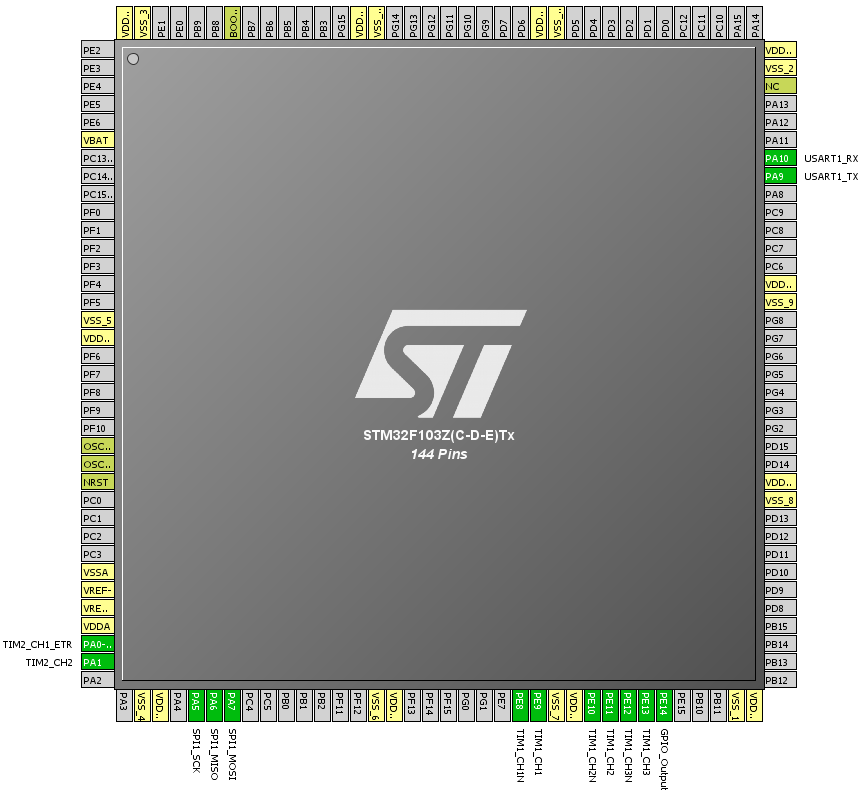
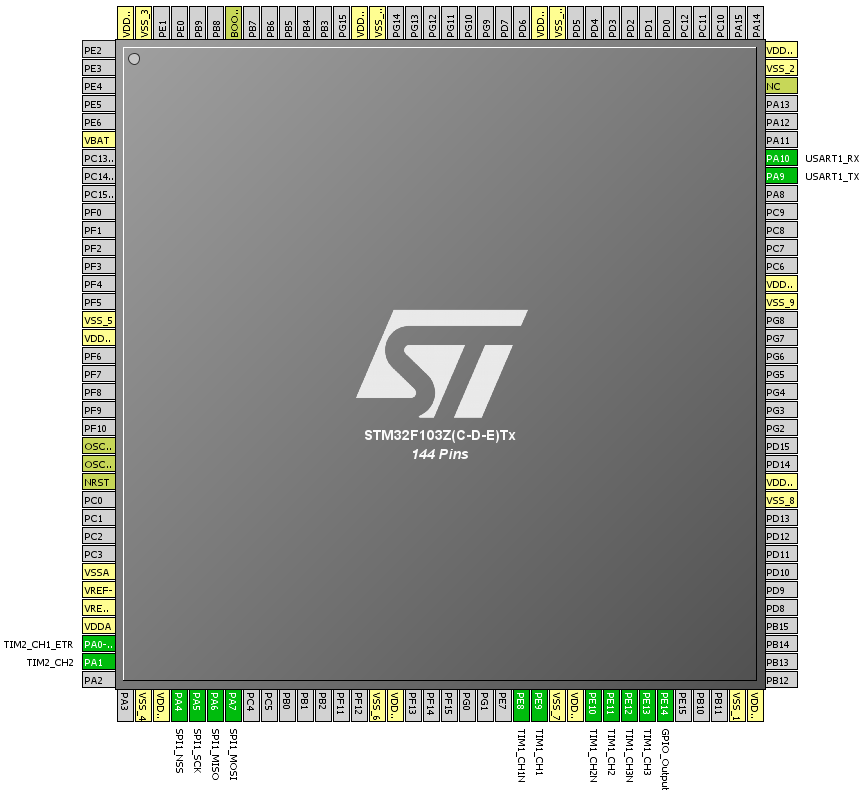
AD7323 HAL (logic analyzer verified only)

Changed region(s): [[0.0, 0.0, 0.9965, 1.0], [0.4228, 0.4545, 0.6039, 0.5758]]

diff --git a/user/ad7323.hpp b/user/ad7323.hpp
@@ -1,0 +1,128 @@
+#ifndef _AD7323_HPP_
+#define _AD7323_HPP_
+
+#include "stdint.h"
+
+
+extern bool ad7323_enabled;
+extern uint16_t ad7323_val[4];
+
+
+////////////
+// registers
+
+union ad7323_ctrl_t {
+    uint16_t all;
+    __packed struct {
+        uint16_t _1_0       : 2; //[ 1: 0] reserved
+        uint16_t seq        : 2; //[ 3: 2] sequencer mode
+        uint16_t ref        : 1; //[ 4: 4] internal reference enable
+        uint16_t coding     : 1; //[ 5: 5] 0 => 2's compl, 1 => 1's compl
+        uint16_t pm         : 2; //[ 7: 6] power mode
+        uint16_t mode       : 2; //[ 9: 8] input mode
+        uint16_t add        : 2; //[11:10] address (see datasheet)
+        uint16_t _12        : 1; //[12:12] reserved
+        uint16_t _REG       : 3; //[15:13] register select
+    } fields;
+
+    enum seq_t {
+        seq_off     = 0, //2'b00 sequencer not used
+        seq_mask    = 1, //2'b01 use `seq` register (channel mask)
+        seq_range   = 2, //2'b10 from 0 to `add` of `ctrl` register
+    };
+    enum pm_t {
+        pm_normal   = 0, //2'b00 all power up
+        pm_standby  = 1, //2'b01 auto-standby
+        pm_shutdown = 2, //2'b10 auto-shutdown
+        pm_off      = 3, //2'b11 full-shutdown
+    };
+    enum mode_t {
+        mode_4se    = 0, //2'b00 [0, 1, 2, 3]
+        mode_2pd    = 1, //2'b01 [0-1, 0-1, 2-3, 2-3] (digital)
+        mode_2fd    = 2, //2'b10 [0-1, 0-1, 2-3, 2-3] (analog)
+        mode_3pd    = 3, //2'b11 [0-3, 1-3, 2-3, n/a] (digital)
+    };
+
+    enum {
+        _REG = 4, //3'b100
+    };
+
+    void init() {
+        all = 0;
+        fields._REG = _REG;
+    }
+};
+extern ad7323_ctrl_t ad7323_ctrl;
+
+union ad7323_seq_t {
+    uint16_t all;
+    __packed struct {
+        uint16_t _8_0   : 9; //[ 8: 0] reserved
+        uint16_t vin3   : 1; //[ 9: 9] ch 3 enable
+        uint16_t vin2   : 1; //[10:10] ch 2 enable
+        uint16_t vin1   : 1; //[11:11] ch 1 enable
+        uint16_t vin0   : 1; //[12:12] ch 0 enable
+        uint16_t _REG   : 3; //[15:13] register select
+    } fields;
+
+    enum {
+        _REG = 7, //3'b111
+    };
+
+    void init() {
+        all = 0;
+        fields._REG = _REG;
+    }
+};
+extern ad7323_seq_t ad7323_seq;
+
+union ad7323_range_t {
+    uint16_t all;
+    __packed struct {
+        uint16_t _4_0   : 5; //[ 4: 0] reserved
+        uint16_t vin3   : 2; //[ 6: 5] ch 3 range
+        uint16_t vin2   : 2; //[ 8: 7] ch 2 range
+        uint16_t vin1   : 2; //[10: 9] ch 1 range
+        uint16_t vin0   : 2; //[12:11] ch 0 range
+        uint16_t _REG   : 3; //[15:13] register select
+    } fields;
+
+    enum {
+        s10    = 0, //2'b00 [-10, +10]
+        s5     = 1, //2'b01 [-5, +5]
+        s2_5   = 2, //2'b10 [-2.5, +2.5]
+        u10     = 3, //2'b11 [0, +10]
+    };
+
+    enum {
+        _REG = 5,
+    };
+
+    void init() {
+        all = 0;
+        fields._REG = _REG;
+    }
+};
+extern ad7323_range_t ad7323_range;
+
+union ad7323_data_t {
+    uint16_t all;
+    __packed struct {
+        uint16_t val     : 13; //[12: 0] {sign, value}
+        uint16_t ch      : 2;  //[14:13] channel
+        uint16_t _15     : 1;  //[15:15] reserved
+    } fields;
+};
+
+
+////////////
+// public methods
+
+void ad7323_init(void);
+void ad7323_conf(void);
+void ad7323_on(void);
+void ad7323_off(void);
+
+
+
+#endif//_AD7323_HPP_

diff --git a/user/ad7323.cpp b/user/ad7323.cpp
@@ -1,0 +1,97 @@
+#include "ad7323.hpp"
+
+#include "conf.hpp"
+
+bool ad7323_enabled = false;
+uint16_t ad7323_val[4] = {0};
+
+ad7323_ctrl_t ad7323_ctrl;
+ad7323_seq_t ad7323_seq;
+ad7323_range_t ad7323_range;
+
+
+////////////
+// SPI
+
+#define SPI_CSn O_SPI1_CSn
+#define WAIT_UNTIL(flag, val) while (PERIPH_SBIT(SPI, SPI1, SR, flag) != (val))
+
+static void tx(uint16_t data) {
+    WAIT_UNTIL(TXE, 1);
+    SPI1->DR = data;
+}
+
+
+////////////
+// HAL
+
+void ad7323_init() {
+    RCC_ENR(APB2, SPI1EN) = 1;
+    RCC_RSTR(APB2, SPI1RST) = 1;
+    RCC_RSTR(APB2, SPI1RST) = 0;
+
+    SPI1->CR1 = (SPI_CR1_CPHA * 0) //______    __    __    __
+              | (SPI_CR1_CPOL * 1) //      !__|  !__|  !__|  !...
+              | (SPI_CR1_DFF) //16-bit frame
+              | (SPI_CR1_MSTR) //master mode
+              | (SPI_CR1_SSM) //soft CSn
+              | (SPI_CR1_SSI)
+              | (SPI_CR1_BR_0 * (5-1)) //baud == 72MHz / 2^5 == 2.25MHz
+              | (SPI_CR1_SPE) //standby
+              ;
+
+    NVIC_ClearPendingIRQ(SPI1_IRQn);
+    NVIC_EnableIRQ(SPI1_IRQn);
+
+    ad7323_ctrl.init();
+    ad7323_seq.init();
+    ad7323_range.init();
+}
+
+void ad7323_conf() {
+    SPI1->CR1 &=~ SPI_CR1_RXONLY;
+    SPI_CSn = 0;
+
+    tx(ad7323_seq.all);
+    tx(ad7323_range.all);
+    tx(ad7323_ctrl.all);
+
+    WAIT_UNTIL(TXE, 1);
+    WAIT_UNTIL(BSY, 0);
+
+    SPI_CSn = 1;
+}
+
+//start-stop sequence (tricky!)
+//xref: RM0008 ch25.3.8 Disabling the SPI
+
+void ad7323_on() {
+    ad7323_enabled = true;
+
+    SPI_CSn = 0;
+    WAIT_UNTIL(BSY, 0);
+    uint16_t volatile force_read = SPI1->DR; SPI1->DR = 0; //flush data register
+    SPI1->CR1 |=  SPI_CR1_RXONLY;
+    SPI1->CR2 |=  SPI_CR2_RXNEIE;
+}
+
+void ad7323_off() {
+    ad7323_enabled = false;
+}
+static void ad7323_off_deferred() {
+    SPI1->CR2 &=~ SPI_CR2_RXNEIE;
+    SPI1->CR1 &=~ SPI_CR1_RXONLY;
+    WAIT_UNTIL(BSY, 0);
+    SPI_CSn = 1;
+}
+
+//ISR for handling incoming data
+IRQ_DECL(SPI1_IRQn, SPI1_IRQHandler, 1, 0);
+extern "C" void SPI1_IRQHandler(void) {
+    if (SPI1->SR & SPI_SR_RXNE) {
+        if (!ad7323_enabled) ad7323_off_deferred();
+        ad7323_data_t x;
+        x.all = SPI1->DR;
+        ad7323_val[x.fields.ch] = x.fields.val;
+    }
+}

diff --git a/user/main.cpp b/user/main.cpp
@@ -6,9 +6,11 @@
 
 #include "pwm.hpp"
 #include "qep.hpp"
+#include "ad7323.hpp"
 
 
 __task void main_task() {
+    /*
     pwm_init();
     os_dly_wait(100);
     *pwm_ch1_duty = pwm_duty_max/2;
@@ -27,7 +29,9 @@ __task void main_task() {
     os_dly_wait(1000);
     pwm_off();
     os_dly_wait(1000);
+    */
 
+    /*
     qep_init();
     qep_on();
     uint16_t last = 0xff, curr;
@@ -38,6 +42,35 @@ __task void main_task() {
         }
         os_dly_wait(10);
     }
+    */
+
+    os_dly_wait(10);
+
+    ad7323_init();
+
+    ad7323_ctrl.fields.seq = ad7323_ctrl_t::seq_range;
+    ad7323_ctrl.fields.ref = 1; //internal ref
+    ad7323_ctrl.fields.coding = 0; //2's compl
+    ad7323_ctrl.fields.pm = ad7323_ctrl_t::pm_normal;
+    ad7323_ctrl.fields.mode = ad7323_ctrl_t::mode_4se;
+    ad7323_ctrl.fields.add = 3; //ch 0-3
+
+    printf("ctrl: %04x\r\n", ad7323_ctrl.all);
+
+    ad7323_range.fields.vin0 = ad7323_range_t::s10;
+    ad7323_range.fields.vin1 = ad7323_range_t::s10;
+    ad7323_range.fields.vin2 = ad7323_range_t::s10;
+    ad7323_range.fields.vin3 = ad7323_range_t::s10;
+
+    printf("range: %04x\r\n", ad7323_range.all);
+
+    ad7323_conf();
+    os_dly_wait(10);
+    ad7323_on();
+    for (volatile int i = 100 ; i --> 0 ; ) ;
+    ad7323_off();
+
+    while (1) ;
 }
 
 int main() {

diff --git a/user/pwm.cpp b/user/pwm.cpp
@@ -48,7 +48,7 @@ void pwm_init() {
 void pwm_on() {
     TIM1->EGR = TIM_EGR_UG; //reset counter
     TIM1->BDTR |= TIM_BDTR_MOE; //output enable
-    TIM1->CR1 |= TIM_CR1_CEN; //start 
+    TIM1->CR1 |= TIM_CR1_CEN; //start
 }
 void pwm_off() {
     TIM1->BDTR &=~ TIM_BDTR_MOE; //output disable

diff --git a/system/RTX_Config.c b/system/RTX_Config.c
@@ -39,7 +39,7 @@
 //   <i> Set the stack size for tasks which is assigned by the system.
 //   <i> Default: 512
 #ifndef OS_STKSIZE
- #define OS_STKSIZE     256
+ #define OS_STKSIZE     128
 #endif
 
 // <q>Check for the stack overflow

diff --git a/user/pinout.cpp b/user/pinout.cpp
@@ -32,7 +32,8 @@ void pinout_init(){
     I_T2_2 = 1; IP(I_T2_2);
 
     //SPI1
+    O_SPI1_CSn = 1; O(O_SPI1_CSn);
     P(P_SPI1_SCK);
-    P(P_SPI1_MISO);
+    I(I_SPI1_MISO);
     P(P_SPI1_MOSI);
 }

diff --git a/user/pinout.hpp b/user/pinout.hpp
@@ -20,8 +20,9 @@ void pinout_init() AUTORUN;
 #define I_T2_2 PA1
 
 //SPI1
+#define O_SPI1_CSn PA4
 #define P_SPI1_SCK PA5
-#define P_SPI1_MISO PA6
+#define I_SPI1_MISO PA6
 #define P_SPI1_MOSI PA7
 
 

diff --git a/user/conf.hpp b/user/conf.hpp
@@ -5,6 +5,4 @@
 #include "misc.hpp"
 #include "pinout.hpp"
 
-#undef CONV
-
 #endif//_CONF_HPP_
